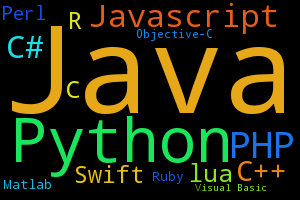
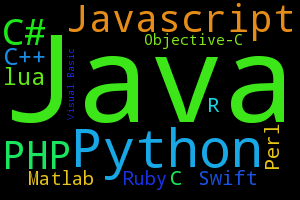
special FR

diff --git a/FR.js b/FR.js
@@ -1,7 +1,7 @@
     // data
 // begin Top FR
 TopPlusMinus = [1,1,3]
-PlusMinus = [-0.270816666667,0.176983333333]
+PlusMinus = [-0.2222,0.211]
 // end Top FR
 graphData = [
 ['Date', // begin section languages
@@ -9,39 +9,39 @@ graphData = [
 // end section languages
 ],
 // begin section FR
-[new Date(2004,1,1), 0.506,0.494,0.0,0.0,0.0,0.0,0.0,0.0,0.0,0.0,0.0,0.0,0.0,0.0,0.0],
-[new Date(2004,5,1), 0.552,0.448,0.0,0.0,0.0,0.0,0.0,0.0,0.0,0.0,0.0,0.0,0.0,0.0,0.0],
-[new Date(2004,9,1), 0.516,0.484,0.0,0.0,0.0,0.0,0.0,0.0,0.0,0.0,0.0,0.0,0.0,0.0,0.0],
-[new Date(2005,1,1), 0.539,0.461,0.0,0.0,0.0,0.0,0.0,0.0,0.0,0.0,0.0,0.0,0.0,0.0,0.0],
-[new Date(2005,5,1), 0.557,0.443,0.0,0.0,0.0,0.0,0.0,0.0,0.0,0.0,0.0,0.0,0.0,0.0,0.0],
-[new Date(2005,9,1), 0.528,0.472,0.0,0.0,0.0,0.0,0.0,0.0,0.0,0.0,0.0,0.0,0.0,0.0,0.0],
-[new Date(2006,1,1), 0.535,0.465,0.0,0.0,0.0,0.0,0.0,0.0,0.0,0.0,0.0,0.0,0.0,0.0,0.0],
-[new Date(2006,5,1), 0.567,0.433,0.0,0.0,0.0,0.0,0.0,0.0,0.0,0.0,0.0,0.0,0.0,0.0,0.0],
+[new Date(2004,1,1), 0.206,0.2,0.0,0.0,0.136,0.144,0.1,0.0,0.092,0.0,0.0,0.0,0.123,0.0,0.0],
+[new Date(2004,5,1), 0.244,0.208,0.0,0.0,0.101,0.139,0.102,0.0,0.091,0.0,0.0,0.0,0.115,0.0,0.0],
+[new Date(2004,9,1), 0.242,0.221,0.0,0.013,0.09,0.152,0.108,0.0,0.079,0.0,0.0,0.0,0.095,0.0,0.0],
+[new Date(2005,1,1), 0.336,0.28,0.0,0.013,0.091,0.13,0.106,0.0,0.019,0.0,0.0,0.0,0.024,0.0,0.0],
+[new Date(2005,5,1), 0.517,0.411,0.0,0.0,0.022,0.021,0.029,0.0,0.0,0.0,0.0,0.0,0.0,0.0,0.0],
+[new Date(2005,9,1), 0.54,0.46,0.0,0.0,0.0,0.0,0.0,0.0,0.0,0.0,0.0,0.0,0.0,0.0,0.0],
+[new Date(2006,1,1), 0.516,0.484,0.0,0.0,0.0,0.0,0.0,0.0,0.0,0.0,0.0,0.0,0.0,0.0,0.0],
+[new Date(2006,5,1), 0.554,0.445,0.0,0.0,0.0,0.0,0.0,0.0,0.0,0.0,0.0,0.0,0.0,0.0,0.0],
 [new Date(2006,9,1), 0.525,0.475,0.0,0.0,0.0,0.0,0.0,0.0,0.0,0.0,0.0,0.0,0.0,0.0,0.0],
-[new Date(2007,1,1), 0.542,0.458,0.0,0.0,0.0,0.0,0.0,0.0,0.0,0.0,0.0,0.0,0.0,0.0,0.0],
-[new Date(2007,5,1), 0.56,0.44,0.0,0.0,0.0,0.0,0.0,0.0,0.0,0.0,0.0,0.0,0.0,0.0,0.0],
-[new Date(2007,9,1), 0.543,0.457,0.0,0.0,0.0,0.0,0.0,0.0,0.0,0.0,0.0,0.0,0.0,0.0,0.0],
-[new Date(2008,1,1), 0.591,0.409,0.0,0.0,0.0,0.0,0.0,0.0,0.0,0.0,0.0,0.0,0.0,0.0,0.0],
-[new Date(2008,5,1), 0.586,0.414,0.0,0.0,0.0,0.0,0.0,0.0,0.0,0.0,0.0,0.0,0.0,0.0,0.0],
-[new Date(2008,9,1), 0.545,0.455,0.0,0.0,0.0,0.0,0.0,0.0,0.0,0.0,0.0,0.0,0.0,0.0,0.0],
-[new Date(2009,1,1), 0.631,0.369,0.0,0.0,0.0,0.0,0.0,0.0,0.0,0.0,0.0,0.0,0.0,0.0,0.0],
-[new Date(2009,5,1), 0.659,0.341,0.0,0.0,0.0,0.0,0.0,0.0,0.0,0.0,0.0,0.0,0.0,0.0,0.0],
+[new Date(2007,1,1), 0.54,0.46,0.0,0.0,0.0,0.0,0.0,0.0,0.0,0.0,0.0,0.0,0.0,0.0,0.0],
+[new Date(2007,5,1), 0.545,0.455,0.0,0.0,0.0,0.0,0.0,0.0,0.0,0.0,0.0,0.0,0.0,0.0,0.0],
+[new Date(2007,9,1), 0.531,0.469,0.0,0.0,0.0,0.0,0.0,0.0,0.0,0.0,0.0,0.0,0.0,0.0,0.0],
+[new Date(2008,1,1), 0.53,0.393,0.0,0.0,0.018,0.014,0.017,0.0,0.017,0.0,0.0,0.0,0.01,0.0,0.0],
+[new Date(2008,5,1), 0.38,0.265,0.0,0.065,0.096,0.096,0.07,0.0,0.017,0.0,0.0,0.0,0.01,0.0,0.0],
+[new Date(2008,9,1), 0.325,0.269,0.0,0.106,0.131,0.156,0.013,0.0,0.0,0.0,0.0,0.0,0.0,0.0,0.0],
+[new Date(2009,1,1), 0.421,0.201,0.0,0.083,0.098,0.127,0.07,0.0,0.0,0.0,0.0,0.0,0.0,0.0,0.0],
+[new Date(2009,5,1), 0.615,0.301,0.0,0.016,0.021,0.018,0.029,0.0,0.0,0.0,0.0,0.0,0.0,0.0,0.0],
 [new Date(2009,9,1), 0.657,0.343,0.0,0.0,0.0,0.0,0.0,0.0,0.0,0.0,0.0,0.0,0.0,0.0,0.0],
-[new Date(2010,1,1), 0.629,0.312,0.029,0.0,0.0,0.0,0.03,0.0,0.0,0.0,0.0,0.0,0.0,0.0,0.0],
-[new Date(2010,5,1), 0.47,0.293,0.109,0.0,0.0,0.0,0.128,0.0,0.0,0.0,0.0,0.0,0.0,0.0,0.0],
-[new Date(2010,9,1), 0.456,0.349,0.082,0.0,0.0,0.0,0.114,0.0,0.0,0.0,0.0,0.0,0.0,0.0,0.0],
-[new Date(2011,1,1), 0.447,0.302,0.097,0.0,0.0,0.0,0.153,0.0,0.0,0.0,0.0,0.0,0.0,0.0,0.0],
-[new Date(2011,5,1), 0.568,0.382,0.0,0.0,0.0,0.0,0.05,0.0,0.0,0.0,0.0,0.0,0.0,0.0,0.0],
-[new Date(2011,9,1), 0.682,0.318,0.0,0.0,0.0,0.0,0.0,0.0,0.0,0.0,0.0,0.0,0.0,0.0,0.0],
-[new Date(2012,1,1), 0.649,0.269,0.028,0.0,0.0,0.025,0.029,0.0,0.0,0.0,0.0,0.0,0.0,0.0,0.0],
-[new Date(2012,5,1), 0.399,0.231,0.113,0.0,0.0,0.135,0.122,0.0,0.0,0.0,0.0,0.0,0.0,0.0,0.0],
-[new Date(2012,9,1), 0.419,0.266,0.081,0.0,0.0,0.165,0.069,0.0,0.0,0.0,0.0,0.0,0.0,0.0,0.0],
-[new Date(2013,1,1), 0.396,0.236,0.111,0.034,0.0,0.11,0.113,0.0,0.0,0.0,0.0,0.0,0.0,0.0,0.0],
-[new Date(2013,5,1), 0.318,0.168,0.166,0.099,0.0,0.135,0.115,0.0,0.0,0.0,0.0,0.0,0.0,0.0,0.0],
-[new Date(2013,9,1), 0.299,0.189,0.198,0.126,0.0,0.124,0.063,0.0,0.0,0.0,0.0,0.0,0.0,0.0,0.0],
-[new Date(2014,1,1), 0.29,0.173,0.17,0.143,0.017,0.125,0.082,0.0,0.0,0.0,0.0,0.0,0.0,0.0,0.0],
-[new Date(2014,5,1), 0.339,0.172,0.179,0.101,0.078,0.112,0.019,0.0,0.0,0.0,0.0,0.0,0.0,0.0,0.0],
-[new Date(2014,9,1), 0.318,0.19,0.215,0.078,0.145,0.054,0.0,0.0,0.0,0.0,0.0,0.0,0.0,0.0,0.0],
-[new Date(2015,1,1), 0.358,0.184,0.206,0.082,0.148,0.022,0.0,0.0,0.0,0.0,0.0,0.0,0.0,0.0,0.0]
+[new Date(2010,1,1), 0.598,0.298,0.017,0.013,0.009,0.014,0.019,0.0,0.008,0.006,0.0,0.0,0.007,0.01,0.0],
+[new Date(2010,5,1), 0.316,0.199,0.075,0.062,0.055,0.084,0.091,0.0,0.037,0.017,0.0,0.0,0.031,0.034,0.0],
+[new Date(2010,9,1), 0.267,0.199,0.065,0.097,0.098,0.131,0.11,0.0,0.012,0.0,0.0,0.0,0.012,0.008,0.0],
+[new Date(2011,1,1), 0.296,0.183,0.095,0.09,0.083,0.105,0.126,0.0,0.011,0.0,0.0,0.01,0.0,0.0,0.0],
+[new Date(2011,5,1), 0.287,0.194,0.091,0.08,0.068,0.09,0.128,0.015,0.014,0.012,0.0,0.006,0.007,0.008,0.0],
+[new Date(2011,9,1), 0.403,0.147,0.085,0.073,0.071,0.074,0.092,0.054,0.0,0.0,0.0,0.0,0.0,0.0,0.0],
+[new Date(2012,1,1), 0.435,0.148,0.123,0.041,0.054,0.055,0.068,0.053,0.008,0.008,0.0,0.006,0.0,0.0,0.0],
+[new Date(2012,5,1), 0.463,0.27,0.204,0.008,0.012,0.016,0.012,0.015,0.0,0.0,0.0,0.0,0.0,0.0,0.0],
+[new Date(2012,9,1), 0.502,0.31,0.188,0.0,0.0,0.0,0.0,0.0,0.0,0.0,0.0,0.0,0.0,0.0,0.0],
+[new Date(2013,1,1), 0.457,0.258,0.223,0.034,0.0,0.0,0.027,0.0,0.0,0.0,0.0,0.0,0.0,0.0,0.0],
+[new Date(2013,5,1), 0.341,0.179,0.175,0.097,0.0,0.12,0.089,0.0,0.0,0.0,0.0,0.0,0.0,0.0,0.0],
+[new Date(2013,9,1), 0.295,0.187,0.195,0.124,0.0,0.136,0.063,0.0,0.0,0.0,0.0,0.0,0.0,0.0,0.0],
+[new Date(2014,1,1), 0.275,0.172,0.167,0.141,0.018,0.147,0.079,0.0,0.0,0.0,0.0,0.0,0.0,0.0,0.0],
+[new Date(2014,5,1), 0.334,0.179,0.176,0.105,0.076,0.111,0.019,0.0,0.0,0.0,0.0,0.0,0.0,0.0,0.0],
+[new Date(2014,9,1), 0.326,0.189,0.219,0.075,0.136,0.055,0.0,0.0,0.0,0.0,0.0,0.0,0.0,0.0,0.0],
+[new Date(2015,1,1), 0.376,0.154,0.228,0.081,0.139,0.022,0.0,0.0,0.0,0.0,0.0,0.0,0.0,0.0,0.0]
 // end section FR
         ];

diff --git a/PYPL.html b/PYPL.html
@@ -218,12 +218,12 @@ table = "<!-- begin section GB-->\
 if (getUrlParameter('country') == "FR") {
 cloud = "FR.png"
 table = "<!-- begin section FR-->\
-<td class=center>1</td><td class=center></td><td>Java</td><td class=right>35.8 %</td><td class=\"right optCol\">+1.9 %</td></tr>\
-<tr><td class=center>2</td><td class=center><image src=Up.png></td><td>Python</td><td class=right>20.6 %</td><td class=\"right optCol\">+6.7 %</td></tr>\
-<tr><td class=center>3</td><td class=center><image src=Down.png></td><td>PHP</td><td class=right>18.4 %</td><td class=\"right optCol\">+2.5 %</td></tr>\
-<tr><td class=center>4</td><td class=center><image src=Up.png><image src=Up.png><image src=Up.png></td><td>Javascript</td><td class=right>14.8 %</td><td class=\"right optCol\">+15.0 %</td></tr>\
-<tr><td class=center>5</td><td class=center><image src=Down.png></td><td>C#</td><td class=right>8.2 %</td><td class=\"right optCol\">-5.1 %</td></tr>\
-<tr><td class=center>6</td><td class=center><image src=Down.png></td><td>C++</td><td class=right>2.2 %</td><td class=\"right optCol\">-13.4 %</td>\
+<td class=center>1</td><td class=center></td><td>Java</td><td class=right>37.6 %</td><td class=\"right optCol\">+4.7 %</td></tr>\
+<tr><td class=center>2</td><td class=center><image src=Up.png></td><td>Python</td><td class=right>22.8 %</td><td class=\"right optCol\">+9.0 %</td></tr>\
+<tr><td class=center>3</td><td class=center><image src=Down.png></td><td>PHP</td><td class=right>15.4 %</td><td class=\"right optCol\">+0.2 %</td></tr>\
+<tr><td class=center>4</td><td class=center><image src=Up.png><image src=Up.png><image src=Up.png></td><td>Javascript</td><td class=right>13.9 %</td><td class=\"right optCol\">+13.8 %</td></tr>\
+<tr><td class=center>5</td><td class=center></td><td>C#</td><td class=right>8.1 %</td><td class=\"right optCol\">-5.7 %</td></tr>\
+<tr><td class=center>6</td><td class=center><image src=Down.png><image src=Down.png></td><td>C++</td><td class=right>2.2 %</td><td class=\"right optCol\">-14.5 %</td>\
 <!-- end section FR-->\
 ";
 }
@@ -486,7 +486,7 @@ if (getUrlParameter('country') == "US") {$.getScript("US.js?t=axbUS251USbxa")}
 if (getUrlParameter('country') == "DE") {$.getScript("DE.js?t=axbDE5123DEbxa")}
 if (getUrlParameter('country') == "IN") {$.getScript("IN.js?t=axbIN8342INbxa")}
 if (getUrlParameter('country') == "GB") {$.getScript("GB.js?t=axbGB1860GBbxa")}
-if (getUrlParameter('country') == "FR") {$.getScript("FR.js?t=axbFR8159FRbxa")}
+if (getUrlParameter('country') == "FR") {$.getScript("FR.js?t=axbFR4729FRbxa")}
 $.ajaxSetup({async:true});
 
 document.getElementById('topBottom').innerHTML = String.format('{0} is the most popular language, {3} grew the most in the last 5 years ({4}%) and {1} lost the most ({2}%)', 
